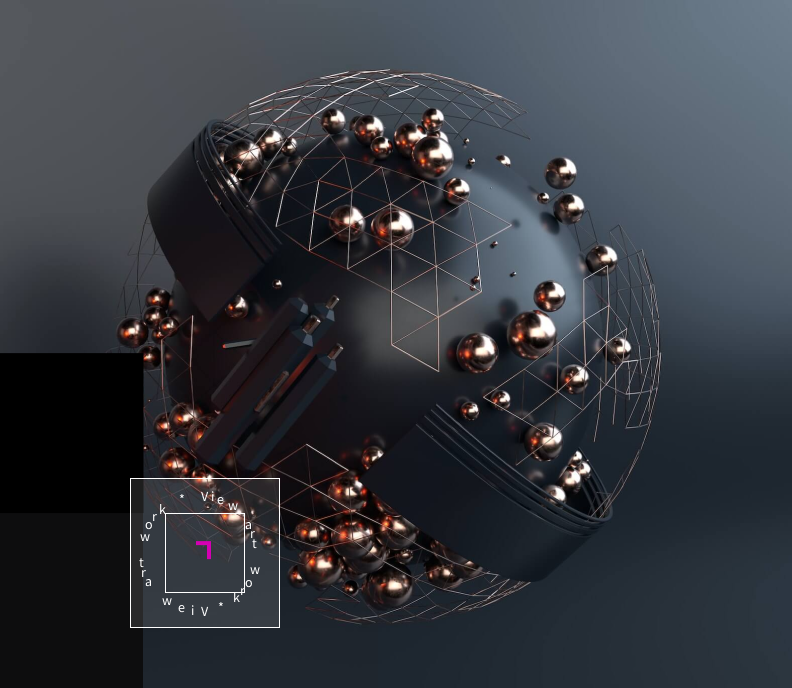
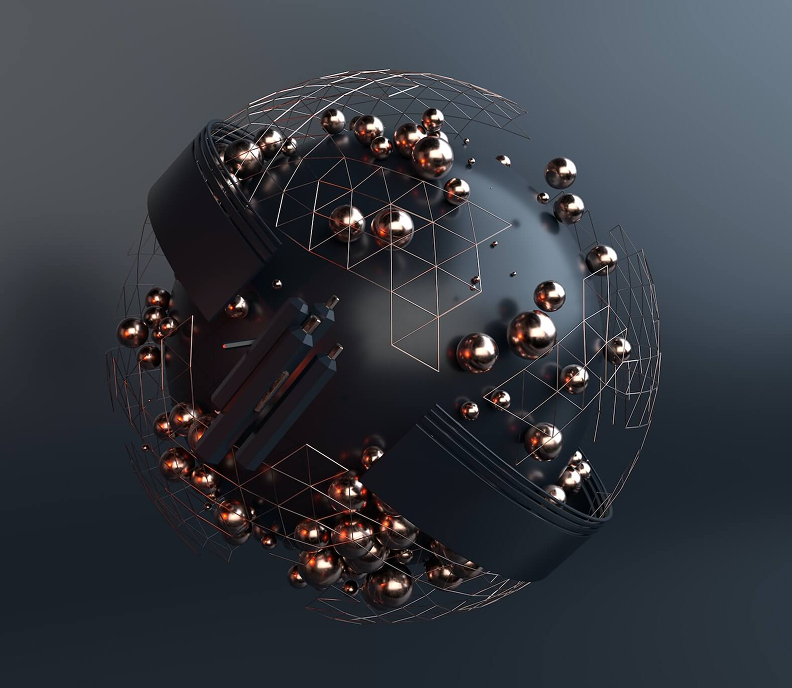
14_10 sliders left

diff --git a/proj/src/components/Partners/Partners.scss b/proj/src/components/Partners/Partners.scss
@@ -5,9 +5,56 @@
     flex-direction: column;
     justify-content: space-between;
     align-items: center;
+    margin-bottom: 15vh;
+    position: relative;
+    .pic_center{
+        position: absolute;
+        top: 6.5%;
+        left: 36%;
+        height: 733px;
+        width: 555px;
+    }
+    .p_form{
+        background-color: #262627;
+        width: 80%;
+        height: 50%;
+        border-bottom: #D400B3 5px solid;
+        display: flex;
+        justify-content: center;
+        align-items: center;
+        .p_content{
+            width: 50%;
+            height: 45%;
+            display: flex;
+            flex-direction: column;
+            justify-content: space-between;
+            align-items: center;
+            text-align: center;
+            p{
+                font-size: 20px;
+            }
+            form{
+                display: flex;
+                flex-direction: row;
+                align-items: center;
+                input{
+                    background-color: rgba(196, 196, 196, 0.1);
+                    width: 456px;
+                    height: 50px;
+                    border: rgba(229, 229, 229, 0.3) 1px solid;
+                }
+                button{
+                    background-color: #D400B3;
+                    height: 52px;
+                    width: 144px;
+                    border: none;
+                }
+            }
+        }
+    }
     .partners_title{
         width: 80%;
-        height: 40%;
+        height: 35%;
         text-align: center;
         display: flex;
         flex-direction: column;
@@ -26,11 +73,11 @@
         }
     }
     .partners_ul{
-        width: 70%;
+        width: 60%;
         height: 60%;
         position: relative;
         display: flex;
-        flex-direction: column;
+        flex-direction: row;
         justify-content: space-between;
         flex-wrap: wrap;
         .p_card{
@@ -43,6 +90,14 @@
         }
         .p_special{
             position: absolute;
+            top: 25%;
+            right: 31%;
+            background-color: rgba(196, 196, 196, 0.2);
+            width: 341px;
+            height: 118px;
+            display: flex;
+            justify-content: center;
+            align-items: center;
         }
     }
 }

diff --git a/proj/src/components/About/About.scss b/proj/src/components/About/About.scss
@@ -1,17 +1,78 @@
 
 .about_section{
     width: 100%;
-    height: 70vh;
-    div{
-        width: 35%;
-        height: 90%;
-        margin-left: 5vw;
-        h1{
-        font-size: 84px;
+    height: 75vh;
+    position: relative;
+    display: flex;
+    align-items: center;
+    z-index: 0;
+    .btn_watch{
+        border: none;
+        background-color: #262627;
+        color: white;
+        width: 752px;
+        height: 120px;
+        display: flex;
+        flex-direction: row;
+        justify-content: center;
+        align-items: center;
+        img{
+            height: 42px;
+            width: 42px;
+            margin-left: 20px;
         }
-        p{
-            font-size: 20px;
+    }
+    .about_text{
+        width: 45%;
+        height: 80%;
+        display: flex;
+        flex-direction: column;
+        justify-content: space-between;
+        align-self: flex-end;
+        z-index: 1;
+        div{
+            margin-left: 5vw;
+            h1{
+            font-size: 84px;
+            }
+            p{
+                font-size: 20px;
+            }
         }
+       
+    }
+    .watermark_about{
+        z-index: 5;
+        position: absolute;
+        top: 60%;
+        right: 30%;
+        
+    }
+    .pic_about{
+        position: absolute;
+        z-index: 3;
+        top: 0;
+        right: 0;
+        width: 792px;
+        height: 688px;
+    }
+    .black_sq{
+        position: absolute;
+        z-index: 4;
+        top: 43%;
+        right: 37%;
+        width: 150px;
+        height: 150px;
+        background-color: black;
+    }
+    .gray_sq{
+        position: absolute;
+        z-index: 4;
+        top: 63%;
+        right: 37%;
+        width: 150px;
+        height: 150px;
+        background-color: #0D0D0E;
     }
     
 }

diff --git a/proj/src/components/Partners/Partners.jsx b/proj/src/components/Partners/Partners.jsx
@@ -1,5 +1,6 @@
 import './Partners.scss'
 import {partners} from '../../data.js'
+import pic from '../../assets/partners_pic.png'
 
 const Partners = () => {
   const cards = partners.map(item=> 
@@ -18,16 +19,20 @@ const Partners = () => {
         </ul>
         
       </div>
-      <div>
-          <h2>Never miss a drop</h2>
-          <p>
-            Lorem ipsum dolor sit amet, consectetur dolore adipiscing elit, sed do eiusmod tempor incididunt.
-          </p>
-          <form>
-            <input type="text" />
-            <button type='submit'></button>
-          </form>
+      <div className='p_form'>
+        <div className='p_content'>
+            <h2>Never miss a drop</h2>
+            <p>
+              Lorem ipsum dolor sit amet, consectetur dolore adipiscing elit, sed do eiusmod tempor incididunt.
+            </p>
+            <form>
+              <input type="text" />
+              <button type='submit'></button>
+            </form>
         </div>
+         
+        </div>
+        <img className='pic_center' src={pic} alt="" />
     </section>
   )
 }

diff --git a/proj/src/components/About/About.jsx b/proj/src/components/About/About.jsx
@@ -1,10 +1,14 @@
 import './About.scss'
+import watermark from '../../assets/watermark.png'
+import pic from '../../assets/about.png'
+import play from '../../assets/play.png'
 
 const About = () => {
   return (
     <section className='about_section'>
-      <div>
-            <h1>
+      <div className='about_text'>
+        <div>
+              <h1>
               Discover rare digital art and collect NFT’s
             </h1>
             <p>
@@ -12,8 +16,18 @@ const About = () => {
               Suspendisse varius enim in eros elementum tristique. 
               Duis cursus, mi quis viverra ornare, eros dolor interdum.
             </p>
+        </div>
+            
+             <button className='btn_watch'>
+                <h2>Watch video</h2>
+                <img src={play} alt="" />
+             </button>
       </div>
-      
+      <img className='pic_about' src={pic} alt="" />
+      <img className='watermark_about' src={watermark} alt="" />
+      <div className='black_sq'></div>
+      <div className='gray_sq'></div>
+     
     </section>
   )
 }

diff --git a/proj/src/components/Header/Header.scss b/proj/src/components/Header/Header.scss
@@ -5,7 +5,8 @@
     flex-direction: row;
     justify-content: space-between;
     align-items: center;
-
+    position: absolute;
+    z-index: 1;
     nav{
      display: flex;
     flex-direction: row;
@@ -20,6 +21,10 @@
         list-style: none;
         width: 80%;
         font-size: 18px;
+        }
+        .logo{
+            width: 60px;
+            height: 60px;
         }
     }
     button{

diff --git a/proj/src/components/Artists/Artists.scss b/proj/src/components/Artists/Artists.scss
@@ -61,8 +61,9 @@
             justify-content: space-between;
             align-items: center;
             height: 100%;
-            width: 90%;
+            
             li{
+                margin: 0 15px;
                 height: 70%;
                 display: flex;
                 flex-direction: column;

diff --git a/proj/src/components/CreateAndSell/CreateAndSell.scss b/proj/src/components/CreateAndSell/CreateAndSell.scss
@@ -20,6 +20,7 @@
             width: 392px;
             height: 275px;
             background-color: #262627;
+            background-image: linear-gradient(to bottom left, transparent 10%, #fff 5%, #262627 15%);
             display: flex;
             justify-content: center;
             align-items: center;

diff --git a/proj/src/components/Header/Header.jsx b/proj/src/components/Header/Header.jsx
@@ -6,7 +6,7 @@ export default function Header(){
   return (
     <header className="header_nft">
         <nav>
-            <img src={logo} alt="" />
+            <img className='logo' src={logo} alt="" />
             <ul>
                 <li>Marketplace</li>
                 <li>Artists</li>
